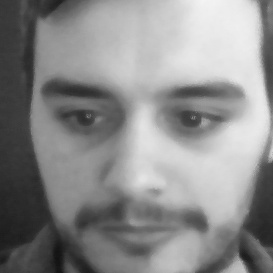
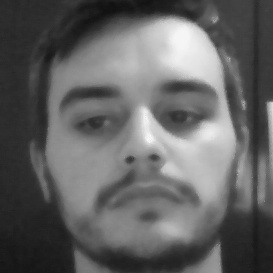
Added multiple webcams support

diff --git a/detectface.py b/detectface.py
@@ -3,68 +3,70 @@ import cv2
 import numpy
 import time
 import patternrecognition as pr
+import sys
+
 grayscales=1.5
-cap = cv2.VideoCapture(1)
-#time.sleep(2)
+ttl=20
+totalcameras=2
+#Faces array
 rosto=[]
-#cap.set(4,800)
-#cap.set(5,600)
-#cap.set(6,24)
-#ret,frame = cap.read()
-#ret,frame = cap.read()
-ttl = 3
+cap=[]
+# Find how many cameras are connected
+cameras=0
+for cameras in range(totalcameras):
+    cap.append(cv2.VideoCapture(cameras))
+    print(cap[cameras])
+if cameras is 0:
+    print("No camera found")
+    sys.exit()
+cameras+=1
+print(str(cameras)+" cameras found.\n")
+#Opens cam for bright adjustment
+tts = 1
 timestart = time.time()
-timeend = timestart+ttl
-
+timeend = timestart+tts
 while timeend>time.time():
-    ret,frame = cap.read()
-    
+    for i in range(cameras):
+        ret,frame = cap[i].read()
 
-ttl = 20
+# Defining program time
 timestart = time.time()
 timeend = timestart+ttl
 
+#Starting windows Thread
 cv2.startWindowThread()
-cv2.namedWindow("LiveDetect")
-cv2.imshow("LiveDetect",frame)
-rosto1=frame.copy()
+for i in range(cameras):
+    cv2.namedWindow("Cam "+str(i))
+    ret,frame=cap[i].read()
+    cv2.imshow("Cam "+str(i),frame)
+
 
 face_cascade = cv2.CascadeClassifier('haarcascade_frontalface_default.xml')
 counter=0
 while timeend>time.time():
-    ret,frame = cap.read()
-    gray = cv2.cvtColor(frame,cv2.COLOR_BGR2GRAY)
-    faces = face_cascade.detectMultiScale(gray, grayscales, 5)
-    #print("Found "+str(len(faces))+" face(s)")
-    for (x,y,w,h) in faces:
-        cv2.rectangle(frame,(x,y),(x+w,y+h),(255,0,0),2)
-        npaux=gray[y:y+h,x:x+w]
-        #rostoaux=cv2.cv.fromarray(gray[x:y,x+w:y+h])
-        rosto.append(npaux)
-        if counter==0:
-            print("Felipe detectado")
-            vetor=pr.calculaLBP(rosto[0],2,2)
-            cv2.putText(frame,"Felipe", (x,y), cv2.FONT_HERSHEY_SIMPLEX, 2, 255)
-        else:
-            vetor2=pr.calculaLBP(rosto[counter],2,2)
-            distancia=pr.distanciaEuclidiana(vetor,vetor2)
-            if distancia<0.1:
+    for i in range(cameras):
+        ret,frame = cap[i].read()
+        gray = cv2.cvtColor(frame,cv2.COLOR_BGR2GRAY)
+        faces = face_cascade.detectMultiScale(gray, grayscales, 5)
+        #print("Found "+str(len(faces))+" face(s)")
+        for (x,y,w,h) in faces:
+            cv2.rectangle(frame,(x,y),(x+w,y+h),(255,0,0),2)
+            npaux=gray[y:y+h,x:x+w]
+            #rostoaux=cv2.cv.fromarray(gray[x:y,x+w:y+h])
+            rosto.append(npaux)
+            if counter==0:
+                print("Felipe detectado")
+                vetor=pr.calculaLBP(rosto[0],2,2)
                 cv2.putText(frame,"Felipe", (x,y), cv2.FONT_HERSHEY_SIMPLEX, 2, 255)
             else:
-                cv2.putText(frame,"Nao sei", (x,y), cv2.FONT_HERSHEY_SIMPLEX, 2, 255)
-            print("Distancia: "+str(distancia))
-        cv2.imshow("LiveDetect",frame)
-        counter+=1
-    #rostoaux=cv2.cv.fromarray(gray[x:w,y:h])
-    #cv2.imshow("LiveDetect",rostoaux)
-
-#print(len(rosto))
+                vetor2=pr.calculaLBP(rosto[counter],2,2)
+                distancia=pr.distanciaEuclidiana(vetor,vetor2)
+                if distancia<0.1:
+                    cv2.putText(frame,"Felipe", (x,y), cv2.FONT_HERSHEY_SIMPLEX, 2, 255)
+                else:
+                    cv2.putText(frame,"Nao sei", (x,y), cv2.FONT_HERSHEY_SIMPLEX, 2, 255)
+                print("Distancia: "+str(distancia))
+            cv2.imshow("Cam "+str(i),frame)
+            counter+=1
 cv2.imwrite('result.jpg',npaux)
-#cv2.imshow('rosto1',rosto1)
-#cvmat=cv2.cv.fromarray(frame)
-
-vetor=pr.calculaLBP(npaux,2,2)
-vetor2=pr.calculaLBP(npaux,2,2)
-print(pr.distanciaEuclidiana(vetor,vetor2))
-#cv2.waitKey(0)
 print(len(rosto))
